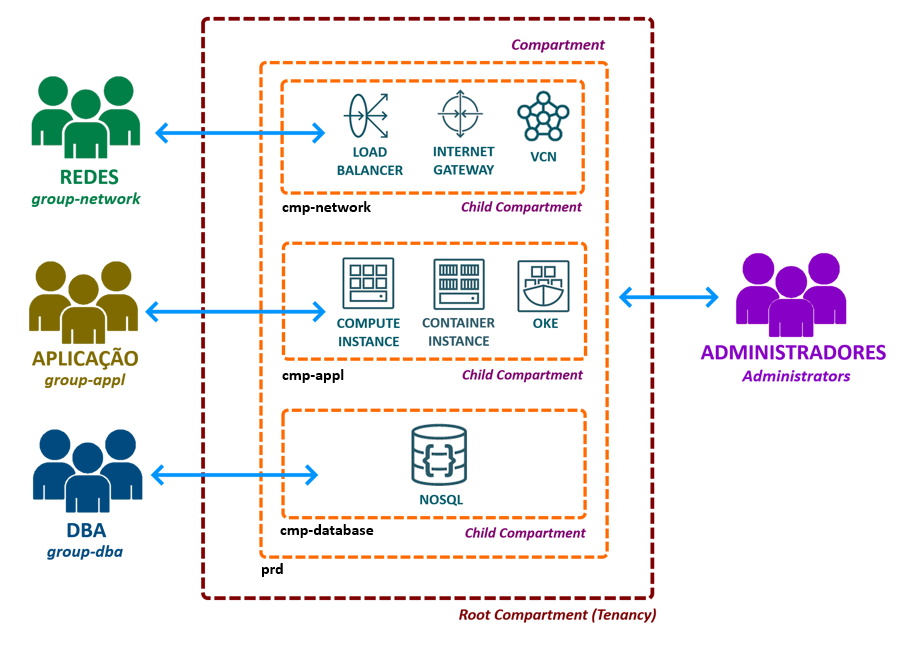
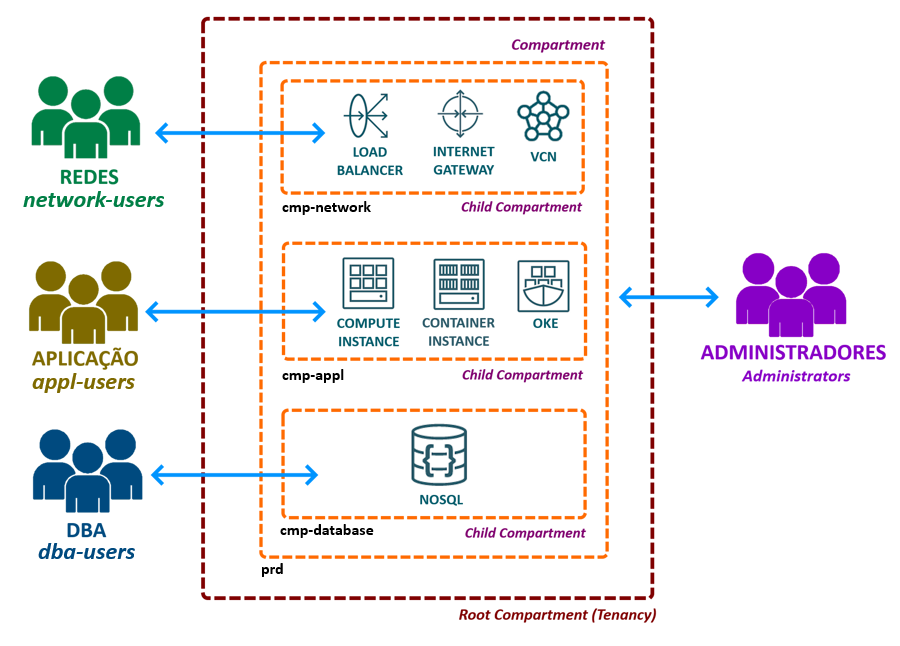
Escrevendo o Livro.

Changed region(s): [[0.0311, 0.2786, 0.1867, 0.3406], [0.0311, 0.5573, 0.1556, 0.6192], [0.0311, 0.8359, 0.1556, 0.8669]]

diff --git a/docs/capitulo-2/iam-limites-e-cotas.md b/docs/capitulo-2/iam-limites-e-cotas.md
@@ -32,7 +32,7 @@ O gerenciamento de identidades no OCI é feito através de dois recursos:
 
 Iniciaremos a explicação sobre o _Gerenciamento de Identidades_ através do usuário _Administrador_ do _[Tenancy](../capitulo-1/definicoes-nist.md#resource-pooling-agrupamento-de-recursos)_. Em seguida, abordaremos o processo de criação de usuários e grupos.
 
-### Usuário Administrador
+### **Usuário Administrador**
 
 Toda conta criada no OCI possui, por padrão, um usuário _administrador_. Além de ter **_acesso total_** ao _[Tenancy](../capitulo-1/definicoes-nist.md#resource-pooling-agrupamento-de-recursos)_, este é o primeiro usuário do _[IAM](https://docs.oracle.com/pt-br/iaas/Content/Identity/getstarted/identity-domains.htm)_ criado após a ativação da conta, sendo responsável por configurar todos os demais usuários.
 
@@ -74,7 +74,7 @@ $ oci iam policy list \
 !!! note "NOTA"
     O comando para consultar a _[policy](https://docs.oracle.com/pt-br/iaas/Content/Identity/policieshow/Policy_Basics.htm#top)_ _"Tenant Admin Policy"_ deve incluir, no parâmetro _--compartment-id_, o valor _[OCID](./gerenciando-o-oci-atraves-do-oci-cli.md#251-oracle-cloud-identifier-ocid)_ do _[Tenancy](../capitulo-1/definicoes-nist.md#resource-pooling-agrupamento-de-recursos)_. Note que o comando anterior, que exibiu o grupo _Administrators_, trouxe esse valor por meio da chave _"compartment-id"_.
 
-### Criando Usuários
+### **Criando Usuários**
 
 O comando abaixo é utilizado para criar um novo usuário com o nome de login _fulano.beltrano_:
 
@@ -122,7 +122,7 @@ Observe que a senha, presente na chave _"password"_, foi gerada automaticamente 
 !!! note "NOTA"
     O OCI também oferece suporte ao uso de usuários federados, além dos usuários locais criados diretamente no IAM. Para um exemplo de como federar usuários com o _Microsoft Active Directory (AD)_, consulte o apêndice _[A.4 Federação com Microsoft Active Directory (AD)](../apendice-a/federacao-com-microsoft-active-directory.md)_.
 
-### Criando Grupos
+### **Criando Grupos**
 
 O acesso aos diversos recursos do OCI é concedido a grupos, e não a usuários individuais. Isso significa que, como administrador, você deve autorizar um grupo de usuários em vez de conceder permissões a cada usuário individual.
 
@@ -132,26 +132,26 @@ Para criar um grupo de usuários, execute o comando abaixo:
 
 ```bash linenums="1"
 $ oci iam group create \
-> --name "group-network" \
+> --name "network-users" \
 > --description "Grupo de usuários que pertencem à equipe de Redes." \
 > --wait-for-state "ACTIVE"
 ```
 
 !!! note "NOTA"
-    O script **_[scripts/capitulo-2/groups.sh](https://github.com/daniel-armbrust/ocipizza-iac/blob/main/scripts/capitulo-2/groups.sh)_** contido no repositório **_["ocipizza-iac"](https://github.com/daniel-armbrust/ocipizza-iac)_**, inclui todos os comandos necessários para a criação dos grupos que serão utilizados nos exemplos apresentados neste capítulo.
+    O script **_[scripts/capitulo-2/group.sh](https://github.com/daniel-armbrust/ocipizza-iac/blob/main/scripts/capitulo-2/group.sh)_** contido no repositório **_["ocipizza-iac"](https://github.com/daniel-armbrust/ocipizza-iac)_**, inclui todos os comandos necessários para a criação dos grupos que serão utilizados nos exemplos apresentados neste capítulo.
 
 Após a criação do grupo, é possível adicionar usuários a ele. Para isso, é necessário obter o _[OCID](./gerenciando-o-oci-atraves-do-oci-cli.md#251-oracle-cloud-identifier-ocid)_ tanto do grupo quanto do usuário que será adicionado.
 
 O comando abaixo retorna o _[OCID](./gerenciando-o-oci-atraves-do-oci-cli.md#251-oracle-cloud-identifier-ocid)_ do grupo _group-network_ recém-criado:
 
 ```bash linenums="1"
-$ oci iam group list --name "group-network" --query "data[].id"
+$ oci iam group list --name "network-users" --query "data[].id"
 [
   "ocid1.group.oc1..aaaaaaaaaaaaaaaaaaaaaaaaaaaaaaaaaaaaaaaa"
 ]
 ```
 
-Para adicionar o usuário _fulano.beltrano_ ao grupo _group-network_, utilize o seguinte comando:
+Para adicionar o usuário _fulano.beltrano_ ao grupo _network-users_, utilize o seguinte comando:
 
 ```bash linenums="1"
 $ oci iam group add-user \
@@ -159,7 +159,7 @@ $ oci iam group add-user \
 > --user-id "ocid1.user.oc1..aaaaaaaaaaaaaaaaaaaaaaaaaaaaaaaaaaaaaaaa"
 ```
 
-O comando abaixo exibe a lista de usuários que são membros do grupo _group-network_:
+O comando abaixo exibe a lista de usuários que são membros do grupo _network-users_:
 
 ```bash linenums="1"
 $ oci iam group list-users \
@@ -180,12 +180,12 @@ A concessão de acesso ou autorização no OCI é realizada por meio de dois rec
 - **[Compartimentos](https://docs.oracle.com/pt-br/iaas/Content/Identity/compartments/managingcompartments.htm)**
     - São unidades de organização que permitem agrupar e isolar recursos, facilitando a gestão e o controle de acesso.
 
-- **[Políticas de Acesso](https://docs.oracle.com/pt-br/iaas/Content/Identity/access/manage-accessresources.htm)**
+- **[Políticas de Acesso](https://docs.oracle.com/pt-br/iaas/Content/Identity/policieshow/Policy_Basics.htm)**
     - São regras que definem permissões e controlam o acesso aos recursos.
 
-Uma boa prática é iniciar o _"desenho do processo de autorização"_ com as definições dos _[compartimentos](https://docs.oracle.com/pt-br/iaas/Content/Identity/compartments/managingcompartments.htm)_. Após a criação dos _[compartimentos](https://docs.oracle.com/pt-br/iaas/Content/Identity/compartments/managingcompartments.htm)_, é necessário criar as _[políticas de acesso](https://docs.oracle.com/pt-br/iaas/Content/Identity/access/manage-accessresources.htm)_ para permitir que um _[grupo de usuários](#criando-grupos)_ crie e gerencie os recursos contidos em cada _[compartimento](https://docs.oracle.com/pt-br/iaas/Content/Identity/compartments/managingcompartments.htm)_ específico.
+Uma boa prática é iniciar o _"desenho do processo de autorização"_ com as definições dos _[compartimentos](https://docs.oracle.com/pt-br/iaas/Content/Identity/compartments/managingcompartments.htm)_. Após a criação dos _[compartimentos](https://docs.oracle.com/pt-br/iaas/Content/Identity/compartments/managingcompartments.htm)_, é necessário criar as _[políticas de acesso](https://docs.oracle.com/pt-br/iaas/Content/Identity/policieshow/Policy_Basics.htm)_ para permitir que um _[grupo de usuários](#criando-grupos)_ crie e gerencie os recursos contidos em cada _[compartimento](https://docs.oracle.com/pt-br/iaas/Content/Identity/compartments/managingcompartments.htm)_ específico.
 
-### [Compartimentos](https://docs.oracle.com/pt-br/iaas/Content/Identity/compartments/managingcompartments.htm)
+### **[Compartimentos](https://docs.oracle.com/pt-br/iaas/Content/Identity/compartments/managingcompartments.htm)**
 
 _[Compartimentos](https://docs.oracle.com/pt-br/iaas/Content/Identity/compartments/managingcompartments.htm)_, ou _[Compartments](https://docs.oracle.com/pt-br/iaas/Content/Identity/compartments/managingcompartments.htm)_, são uma **_estrutura lógica_** que permite **_organizar_** e **_isolar_** os recursos que você cria no OCI. Utilizar _[compartimentos](https://docs.oracle.com/pt-br/iaas/Content/Identity/compartments/managingcompartments.htm)_ facilita o gerenciamento desses recursos e proporciona uma camada adicional de **_proteção contra acessos não autorizados_**.
 
@@ -213,7 +213,7 @@ $ oci iam compartment list \
 Entenda o **_Root ou Tenancy Compartment_**, como se fosse o _"contêiner pai"_ que abriga todos os seus recursos no OCI, incluindo os recursos de outros _[compartimento](https://docs.oracle.com/pt-br/iaas/Content/Identity/compartments/managingcompartments.htm)_.
 
 !!! note "NOTA"
-    Alocar recursos diretamente no _Root Compartment_ não é uma boa prática, especialmente quando há diferentes usuários na organização que precisarão interagir com os recursos no OCI. A boa prática é ter diferentes _[compartimentos](https://docs.oracle.com/pt-br/iaas/Content/Identity/compartments/managingcompartments.htm)_ sendo que cada compartimento, será gerenciado por um grupo específico de usuários.
+    Alocar recursos diretamente no _Root Compartment_ não é uma boa prática, especialmente quando há diferentes usuários na organização que precisarão interagir com os recursos no OCI. A boa prática é ter diferentes _[compartimentos](https://docs.oracle.com/pt-br/iaas/Content/Identity/compartments/managingcompartments.htm)_ sendo que cada _[compartimento](#compartimentos)_, será gerenciado por um grupo específico de usuários.
 
 A _[Web Console](./acessando-o-oci.md#web-console)_ filtra a exibição dos seus recursos por _[compartimento](https://docs.oracle.com/pt-br/iaas/Content/Identity/compartments/managingcompartments.htm)_ dentro da região, e você deve selecionar o _[compartimento](https://docs.oracle.com/pt-br/iaas/Content/Identity/compartments/managingcompartments.htm)_ em que deseja trabalhar a partir de uma lista.
 
@@ -227,9 +227,9 @@ Por fim, é possível criar até **_seis subcompartimentos_** dentro de um _[com
 ![alt_text](./img/oci-subcompartments-1.png "Subcompartimentos")
 <br>
 
-#### Compartimentos da Aplicação OCI Pizza
+#### **Compartimentos da Aplicação OCI Pizza**
 
-Para ilustrar melhor o uso de _[compartimentos](https://docs.oracle.com/pt-br/iaas/Content/Identity/compartments/managingcompartments.htm)_, imagine diferentes grupos de profissionais de TI colaborando no desenvolvimento da aplicação **_[OCI PIZZA](../capitulo-3/ocipizza-overview.md)_**. Esses grupos incluem:
+Para ilustrar melhor o uso de _[Compartimento](#compartimentos)_, imagine diferentes grupos de profissionais de TI colaborando no desenvolvimento da aplicação **_[OCI PIZZA](../capitulo-3/ocipizza-overview.md)_**. Esses grupos incluem:
 
 - **REDES**
     - Grupo de pessoas responsáveis pela criação e gerenciamento dos recursos de rede no OCI.
@@ -248,14 +248,14 @@ Da mesma forma, os profissionais **_DBA_** terão acesso somente aos recursos de
 
 Além da separação por grupos de usuários, outra forma de organizar os recursos é através da distinção por _"ambientes"_, como **_Produção (PRD)_**, **_Homologação (HML)_** e **_Desenvolvimento (DEV)_**.
 
-Com base nessas definições, temos a seguinte estrutura de _[compartimentos](https://docs.oracle.com/pt-br/iaas/Content/Identity/compartments/managingcompartments.htm)_ e _subcompartimentos (child compartments)_ para o _ambiente de produção (prd)_:
+Com base nessas definições, temos a seguinte estrutura de _[compartimento](#compartimentos)_ e _subcompartimentos (child compartments)_ para o _ambiente de produção (prd)_:
 
 ![alt_text](./img/oci-comp-ocipizza-1.png "Compartimentos da Aplicação OCI PIZZA")
 <br>
 
-A partir do desenho, é possível observar que o grupo de usuários de redes _(group-network)_ terá autorização para criar recursos de rede exclusivamente no _[compartimento](https://docs.oracle.com/pt-br/iaas/Content/Identity/compartments/managingcompartments.htm)_ _cmp-network_. Outros grupos de usuários, como o de _aplicação (group-appl)_ e o de _DBA (group-dba)_, também terão permissões restritas aos seus respectivos _[compartimentos](https://docs.oracle.com/pt-br/iaas/Content/Identity/compartments/managingcompartments.htm)_ _(cmp-appl e cmp-database)_. Por fim, o grupo _Administrators_ tem acesso total a todos os _[compartimentos](https://docs.oracle.com/pt-br/iaas/Content/Identity/compartments/managingcompartments.htm)_.
+A partir do desenho, é possível observar que o grupo de usuários de redes _(group-network)_ terá autorização para criar recursos de rede exclusivamente no _[compartimento](#compartimentos)_ _cmp-network_. Outros grupos de usuários, como o de _aplicação (group-appl)_ e o de _DBA (group-dba)_, também terão permissões restritas aos seus respectivos _[compartimentos](#compartimentos)_ _(cmp-appl e cmp-database)_. Por fim, o grupo _Administrators_ tem acesso total a todos os _[compartimentos](#compartimentos)_.
 
-Para criar um compartimento, utilize o seguinte comando:
+Para criar um _[compartimento](#compartimentos)_, utilize o seguinte comando:
 
 ```bash linenums="1"
 $ oci iam compartment create \
@@ -265,7 +265,7 @@ $ oci iam compartment create \
 > --wait-for-state "ACTIVE"
 ```
 
-Após a criação do _[compartimento](https://docs.oracle.com/pt-br/iaas/Content/Identity/compartments/managingcompartments.htm)_, obteremos seu  _[OCID](./gerenciando-o-oci-atraves-do-oci-cli.md#251-oracle-cloud-identifier-ocid)_ que será utilizado na criação do próximo _[compartimento](https://docs.oracle.com/pt-br/iaas/Content/Identity/compartments/managingcompartments.htm)_, estabelecendo assim a hierarquia de _[compartimentos](https://docs.oracle.com/pt-br/iaas/Content/Identity/compartments/managingcompartments.htm)_, igual ao que foi apresentado na imagem anterior.
+Após a criação do _[compartimento](#compartimentos)_, obteremos seu  _[OCID](./gerenciando-o-oci-atraves-do-oci-cli.md#251-oracle-cloud-identifier-ocid)_ que será utilizado na criação do próximo _[compartimentos](#compartimentos)_, estabelecendo assim a hierarquia de _[compartimentos](#compartimentos)_, igual ao que foi apresentado na imagem anterior.
 
 ```bash linenums="1"
 $ oci iam compartment list \
@@ -276,7 +276,7 @@ $ oci iam compartment list \
 ]
 ```
 
-Com o _[OCID](./gerenciando-o-oci-atraves-do-oci-cli.md#251-oracle-cloud-identifier-ocid)_ do _[compartimento](https://docs.oracle.com/pt-br/iaas/Content/Identity/compartments/managingcompartments.htm)_ do _ambiente de produção (prd)_, prosseguimos para a criação do próximo _[compartimento](https://docs.oracle.com/pt-br/iaas/Content/Identity/compartments/managingcompartments.htm)_, que é o _cmp-network_:
+Com o _[OCID](./gerenciando-o-oci-atraves-do-oci-cli.md#251-oracle-cloud-identifier-ocid)_ do _[compartimento](#compartimentos)_ do _ambiente de produção (prd)_, prosseguimos para a criação do próximo _[compartimento](#compartimentos)_, que é o _cmp-network_:
 
 ```bash linenums="1"
 $ oci iam compartment create \
@@ -286,21 +286,138 @@ $ oci iam compartment create \
 > --wait-for-state "ACTIVE"
 ```
 
-A criação dos demais _[compartimentos](https://docs.oracle.com/pt-br/iaas/Content/Identity/compartments/managingcompartments.htm)_ seguem a mesma lógica e não serão apresentados aqui.
+A criação dos demais _[compartimentos](#compartimentos)_ seguem a mesma lógica e não serão apresentados aqui.
 
 !!! note "NOTA"
-    O script **_[scripts/capitulo-2/compartments.sh](https://github.com/daniel-armbrust/ocipizza-iac/blob/main/scripts/capitulo-2/compartments.sh)_** contido no repositório **_["ocipizza-iac"](https://github.com/daniel-armbrust/ocipizza-iac)_**, inclui todos os comandos para a criação dos _[compartimentos](https://docs.oracle.com/pt-br/iaas/Content/Identity/compartments/managingcompartments.htm)_ da aplicação OCI PIZZA.
-
-
-### [Políticas de Acesso](https://docs.oracle.com/pt-br/iaas/Content/Identity/access/manage-accessresources.htm)
+    O script **_[scripts/capitulo-2/compartment.sh](https://github.com/daniel-armbrust/ocipizza-iac/blob/main/scripts/capitulo-2/compartment.sh)_** contido no repositório **_["ocipizza-iac"](https://github.com/daniel-armbrust/ocipizza-iac)_**, inclui todos os comandos para a criação dos _[compartimentos](#compartimentos)_ da aplicação **OCI PIZZA**.
 
 !!! note "NOTA"
-    Esse tipo de separação, aplica o conceito de _segurança da informação_ conhecido como _[principio do menor ou mínimo privilégio (least privilege)](https://en.wikipedia.org/wiki/Principle_of_least_privilege)_, no qual determina que um usuário, programa ou sistema, deve ter acesso restrito apenas às permissões necessárias para desempenhar suas funções específicas.
+    A Oracle recomenda a criação e configuração de um _[compartimentos](#compartimentos)_ **_sandbox_** para proporcionar aos usuários um espaço dedicado para testar recursos. No _[compartimento](#compartimentos)_ _sandbox_, você pode conceder permissões aos usuários para criar e gerenciar recursos, enquanto mantém permissões mais restritivas nos demais _[compartimentos](#compartimentos)_.
 
-## 2.6.3 Grupos Dinâmicos
+### **[Políticas de Acesso](https://docs.oracle.com/pt-br/iaas/Content/Identity/policieshow/Policy_Basics.htm)**
 
-## 2.6.4 Gerenciamento de Regiões
+Uma _[Política de Acesso](https://docs.oracle.com/pt-br/iaas/Content/Identity/policieshow/Policy_Basics.htm)_, _[Política](https://docs.oracle.com/pt-br/iaas/Content/Identity/policieshow/Policy_Basics.htm)_ ou _[Policy](https://docs.oracle.com/pt-br/iaas/Content/Identity/policieshow/Policy_Basics.htm)_, é um documento que contém uma ou mais declarações destinadas a conceder acesso e autorizar, um grupo de usuários, em gerenciar determinado serviço ou recurso do OCI. A Policy permite especificar permissões em nível de _[compartimento](#compartimentos)_ ou para todo o _[Tenancy](../capitulo-1/definicoes-nist.md#resource-pooling-agrupamento-de-recursos)_.
 
-### Home Region
+A concessão de acesso é feita a um grupo de usuários ou a um serviço, e não a um usuário específico. Além disso, todo grupo de usuários que é criado não possui nenhuma permissão de acesso, a menos que uma _[Policy](https://docs.oracle.com/pt-br/iaas/Content/Identity/policieshow/Policy_Basics.htm)_ tenha sido previamente definida. É responsabilidade do administrador do _[Tenancy](../capitulo-1/definicoes-nist.md#resource-pooling-agrupamento-de-recursos)_ conceder permissões ao grupo ou serviço por meio de uma ou mais _[policies](https://docs.oracle.com/pt-br/iaas/Content/Identity/policieshow/Policy_Basics.htm)_.
 
-## 2.6.5 Audit
+Basicamente, a sintaxe geral da _[Policy](https://docs.oracle.com/pt-br/iaas/Content/Identity/policieshow/Policy_Basics.htm)_ possui o seguinte formato:
+
+![alt_text](./img/oci-iam-policy-1.png "IAM Policy Sintaxe")
+
+_[Policies](https://docs.oracle.com/pt-br/iaas/Content/Identity/policieshow/Policy_Basics.htm)_ sempre começam com a palavra **_Allow_**. Isso significa que as _[Policies](https://docs.oracle.com/pt-br/iaas/Content/Identity/policieshow/Policy_Basics.htm)_ que você cria apenas concedem ou autorizam acesso, não podendo negá-lo, uma vez que, por padrão, tudo já é negado.
+
+Abaixo está o significado de cada uma das partes em destaque que compõem uma _[Policy](https://docs.oracle.com/pt-br/iaas/Content/Identity/policieshow/Policy_Basics.htm)_:
+
+#### **[Assunto](https://docs.oracle.com/pt-br/iaas/Content/Identity/policysyntax/subject.htm)**
+
+O elemento _[assunto](https://docs.oracle.com/pt-br/iaas/Content/Identity/policysyntax/subject.htm)_ pode especificar um _[Grupo de Usuários](#261-gerenciamento-de-identidades)_, _[Grupo Dinâmico](https://docs.public.oneportal.content.oci.oraclecloud.com/pt-br/iaas/Content/Identity/dynamicgroups/Working_with_Dynamic_Groups.htm)_ ou serviços do OCI, utilizando uma das seguintes formas:
+
+- **group**
+    - Nome do _[Grupo de Usuários](#261-gerenciamento-de-identidades)_ no qual o acesso será concedido.
+
+- **group id**
+    - _[OCID](./gerenciando-o-oci-atraves-do-oci-cli.md#251-oracle-cloud-identifier-ocid)_ do _[Grupo de Usuários](#261-gerenciamento-de-identidades)_ no qual o acesso será concedido.
+
+- **dynamic-group**
+    - Nome do _[Grupo Dinâmico](https://docs.public.oneportal.content.oci.oraclecloud.com/pt-br/iaas/Content/Identity/dynamicgroups/Working_with_Dynamic_Groups.htm)_ no qual o acesso será concedido.
+
+- **dynamic-group id**
+    - _[OCID](./gerenciando-o-oci-atraves-do-oci-cli.md#251-oracle-cloud-identifier-ocid)_ do _[Grupo Dinâmico](https://docs.public.oneportal.content.oci.oraclecloud.com/pt-br/iaas/Content/Identity/dynamicgroups/Working_with_Dynamic_Groups.htm)_ no qual o acesso será concedido.
+
+- **service**
+    - Especifica o nome do serviço OCI no qual o acesso será concedido.
+
+- **any-group**
+    - Indica todos os _[Grupos de Usuários](#261-gerenciamento-de-identidades)_ e _[Grupos Dinâmico](https://docs.public.oneportal.content.oci.oraclecloud.com/pt-br/iaas/Content/Identity/dynamicgroups/Working_with_Dynamic_Groups.htm)_ do _[Tenancy](../capitulo-1/definicoes-nist.md#resource-pooling-agrupamento-de-recursos)_.
+
+Há também a sintaxe **_<Nome do Domínio de Identidade\>/<Nome do Grupo\>_** que pode ser utilizada para se referir a um _[Grupo de Usuários](#261-gerenciamento-de-identidades)_ existente em um _[Domínio de Identidade](https://docs.oracle.com/pt-br/iaas/Content/Identity/domains/overview.htm)_ que não é o **_Default_**.
+
+!!! note "NOTA"
+    O livro utiliza o _[Domínio de Identidade](https://docs.oracle.com/pt-br/iaas/Content/Identity/domains/overview.htm)_ **_Default_**, que é criado automaticamente durante o processo de ativação da conta. Para saber mais sobre _[Domínios de Identidade](https://docs.oracle.com/pt-br/iaas/Content/Identity/domains/overview.htm)_, consulte _["Gerenciando Domínios de Identidade"](https://docs.oracle.com/pt-br/iaas/Content/Identity/domains/overview.htm)_.
+
+#### **[Verbo](https://docs.oracle.com/pt-br/iaas/Content/Identity/policieshow/Verbs.htm)**
+
+O elemento _[verbo](https://docs.oracle.com/pt-br/iaas/Content/Identity/policieshow/Verbs.htm)_ especifica o _tipo de acesso_ que será concedido em relação as operações que podem ser feitas em uma determinada API de um determinado serviço. Seus valores incluem:
+
+- **inspect**
+    - Concede a autorização para listar recursos.
+
+- **read**
+    - Inclui as permissões do verbo _inspect_ mais a capacidade de obter metadados do recurso.
+
+- **use**
+    - Inclui as permissões do verbo _read_ mais a capacidade de poder _atualizar_ o recurso _(operações de update)_. Em geral, esse verbo não inclui a capacidade de criar ou excluir um recurso.
+
+- **manage**
+    - Inclui todas as permissões para o recurso. 
+
+!!! note "NOTA"
+    Como é possível perceber o nível de acesso é cumulativo à medida que você vai de _inspect > read > use > manage_.
+
+Sabemos que, para cada serviço disponibilizado pelo OCI, existem uma ou mais APIs disponíveis, e cada API oferece uma funcionalidade específica relacionada ao serviço.
+
+Em termos de concessão de acesso, por exemplo, o verbo _inspect_ para o serviço de _[Load Balancer](../capitulo-4/load-balancer.md)_, inclui a permissão nomeada **_LOAD\_BALANCER\_INSPECT_** que contém as APIs **_ListLoadBalancers_**, **_ListShapes_**, **_ListPolicies_** e **_ListProtocols_**.
+
+![alt_text](./img/oci-api-doc-1.png "Load Balancer API - ListLoadBalancers")
+<br>
+
+!!! note "NOTA"
+    Todas as APIs disponibilizadas pelo OCI estão documentadas no link _["API Reference and Endpoints"](https://docs.oracle.com/en-us/iaas/api/#/)_. Na seção _["2.5.3 APIs do OCI"](../capitulo-2/gerenciando-o-oci-atraves-do-oci-cli.md#253-apis-do-oci)_ há também mais informações relacionadas ao tema de APIs.
+
+O objetivo dos _verbos_ é simplificar o processo de concessão de diversas permissões relacionadas. A tabela abaixo ajuda a esclarecer o significado do _verbo_ em relação à concessão de acesso às operações disponíveis nas APIs do serviço _[Load Balancer](../capitulo-4/load-balancer.md)_:
+
+| Verbo   | Permissão                      | API                                                         |
+|---------|--------------------------------|-------------------------------------------------------------|
+| inspect | LOAD_BALANCER_INSPECT          | _[ListLoadBalancers](https://docs.oracle.com/en-us/iaas/api/#/en/loadbalancer/20170115/LoadBalancer/ListLoadBalancers)_, _[ListShapes](https://docs.oracle.com/en-us/iaas/api/#/en/loadbalancer/20170115/LoadBalancerShape/ListShapes)_, _[ListPolicies](https://docs.oracle.com/en-us/iaas/api/#/en/loadbalancer/20170115/LoadBalancerPolicy/ListPolicies)_ e _[ListProtocols](https://docs.oracle.com/en-us/iaas/api/#/en/loadbalancer/20170115/LoadBalancerProtocol/ListProtocols)_ |
+| read    | _inspect_ + LOAD_BALANCER_READ | _[GetLoadBalancer](https://docs.oracle.com/en-us/iaas/api/#/en/loadbalancer/20170115/LoadBalancer/GetLoadBalancer)_, _[GetBackendSet](https://docs.oracle.com/en-us/iaas/api/#/en/loadbalancer/20170115/BackendSet/GetBackendSet)_, _[GetBackend](https://docs.oracle.com/en-us/iaas/api/#/en/loadbalancer/20170115/Backend/GetBackend)_, _[GetHealthChecker](https://docs.oracle.com/en-us/iaas/api/#/en/loadbalancer/20170115/HealthChecker/GetHealthChecker)_, etc. |
+| use     | _read_ + LOAD_BALANCER_UPDATE e LOAD_BALANCER_MOVE | _[UpdateBackendSet](https://docs.oracle.com/en-us/iaas/api/#/en/loadbalancer/20170115/BackendSet/UpdateBackendSet)_, _[DeleteBackendSet](https://docs.oracle.com/en-us/iaas/api/#/en/loadbalancer/20170115/BackendSet/DeleteBackendSet)_, _[UpdateListener](https://docs.oracle.com/en-us/iaas/api/#/en/loadbalancer/20170115/Listener/UpdateListener)_, etc. |
+| manage  | _use_ + LOAD_BALANCER_CREATE e LOAD_BALANCER_DELETE | _[CreateLoadBalancer](https://docs.oracle.com/en-us/iaas/api/#/en/loadbalancer/20170115/LoadBalancer/CreateLoadBalancer)_ e _[DeleteLoadBalancer](https://docs.oracle.com/en-us/iaas/api/#/en/loadbalancer/20170115/LoadBalancer/DeleteLoadBalancer)_ |
+
+!!! note "NOTA"
+    O link _["Referência da Política de Serviço Detalhada"](https://docs.oracle.com/pt-br/iaas/Content/Identity/policyreference/policyreference.htm)_ contém todos os detalhes referente as permissões e operações às APIs para todos os serviços disponibilizados pelo OCI.
+
+No exemplo abaixo, a _[Policy](https://docs.oracle.com/pt-br/iaas/Content/Identity/policieshow/Policy_Basics.htm)_ escrita concede ao _grupo network-users_, acesso a todas as APIs do serviço que gerencia _[VCNs](../capitulo-4/servico-de-redes.md)_ em todo o _[Tenancy](../capitulo-1/definicoes-nist.md#resource-pooling-agrupamento-de-recursos)_:
+
+![alt_text](./img/oci-iam-policy-2.png "OCI IAM Policy #2")
+<br>
+
+Compreender a relação entre permissões e as APIs disponíveis por serviço facilita a elaboração de _[Policies](https://docs.oracle.com/pt-br/iaas/Content/Identity/policieshow/Policy_Basics.htm)_ mais granulares em termos de acesso. Veremos adiante que é possível, por exemplo, conceder acesso apenas às APIs _[AddVcnCidr](https://docs.oracle.com/en-us/iaas/api/#/en/iaas/20160918/Vcn/AddVcnCidr)_ e _[RemoveVcnCidr](https://docs.oracle.com/en-us/iaas/api/#/en/iaas/20160918/Vcn/RemoveVcnCidr)_ do verbo _manage_, sem conceder acesso às demais APIs, como _[CreateVcn](https://docs.oracle.com/en-us/iaas/api/#/en/iaas/20160918/Vcn/CreateVcn)_, _[UpdateVcn](https://docs.oracle.com/en-us/iaas/api/#/en/iaas/20160918/Vcn/UpdateVcn)_ ou _[DeleteVcn](https://docs.oracle.com/en-us/iaas/api/#/en/iaas/20160918/Vcn/DeleteVcn)_.
+
+#### **[Tipo do Recurso](https://docs.oracle.com/pt-br/iaas/Content/Identity/policiesgs/policies_topic-ResourceTypes.htm)**
+
+O elemento _[Tipo do Recurso](https://docs.oracle.com/pt-br/iaas/Content/Identity/policiesgs/policies_topic-ResourceTypes.htm)_ refere-se a um recurso específico ou a uma _família de recursos_.
+
+Por exemplo, a _família de recursos_ **_virtual-network-family_** abrange vários recursos específicos relacionados a _[VCN](../capitulo-4/servico-de-redes.md)_, como **_vcns_**, **_subnets_**, **_route-tables_**, **_security-lists_**, entre outros. Nesse contexto, **_vcns_** e **_subnets_** correspondem a recursos específicos, como _[VCNs](../capitulo-4/servico-de-redes.md)_ e _[Sub-rede](../capitulo-4/servico-de-redes.md)_.
+
+Trabalhar com um recurso específico ou uma _família de recursos_ proporciona a flexibilidade de definir exatamente quais recursos terão acesso concedido.
+
+Há também o tipo **_all-resources_**, que pode ser usado para fazer referência a todos os recursos do _[Tenancy](../capitulo-1/definicoes-nist.md#resource-pooling-agrupamento-de-recursos)_.
+
+![alt_text](./img/oci-iam-policy-3.png "IAM Policy Exemplos #3")
+
+!!! note "NOTA"
+    Consulte _["Referência da Política de Serviço Detalhada"](https://docs.oracle.com/pt-br/iaas/Content/Identity/policyreference/policyreference.htm)_ para verificar os tipos de recursos disponíveis e o nome da família de recursos à qual cada recurso pertence.
+
+#### **[Local](https://docs.oracle.com/pt-br/iaas/Content/Identity/policysyntax/location.htm)**
+
+O elemento _[Local](https://docs.oracle.com/pt-br/iaas/Content/Identity/policysyntax/location.htm)_ especifica o _[Compartimento](#compartimentos)_ ou _[Tenancy](../capitulo-1/definicoes-nist.md#resource-pooling-agrupamento-de-recursos)_ no qual a _[Policy](https://docs.oracle.com/pt-br/iaas/Content/Identity/policieshow/Policy_Basics.htm)_ concede acesso. Em outras palavras, ele define o escopo do acesso, que pode ser um _[compartimento](#compartimentos)_ específico ou todo o _[Tenancy](../capitulo-1/definicoes-nist.md#resource-pooling-agrupamento-de-recursos)_.
+
+Os seguintes valores que podem ser usados para o elemento _[local](https://docs.oracle.com/pt-br/iaas/Content/Identity/policysyntax/location.htm)_ são:
+
+- **tenancy**
+    - Abrange todos os recursos do Tenancy.
+
+- **compartment**
+    - Usado para especificar o nome do compartimento onde a policy será aplicada. Se houver subcompartimentos abaixo do compartimento especificado, a policy se aplicará a todos os compartimentos a partir do nível mais alto da hierarquia.
+  
+- **compartment id**
+    - Usado para especificar o _[OCID](./gerenciando-o-oci-atraves-do-oci-cli.md#251-oracle-cloud-identifier-ocid)_ do compartimento onde a policy será aplicada. 
+
+Valores válidos para o elemento _[Local](https://docs.oracle.com/pt-br/iaas/Content/Identity/policysyntax/location.htm)_ também podem incluír um _[compartimento](#compartimentos)_ específico dentro de uma hierarquia de _[compartimentos](#compartimentos)_:
+
+![alt_text](./img/oci-iam-policy-4.png "IAM Policy Exemplos #4")
+
+Para **_compartment id_**, é possível utilizar apenas um valor _[OCID](./gerenciando-o-oci-atraves-do-oci-cli.md#251-oracle-cloud-identifier-ocid)_ de um  _[compartimento](#compartimentos)_ específico. Não é permitido fazer referência a uma hierarquia de  _[compartimentos](#compartimentos)_.
+
+#### **[Condição](https://docs.oracle.com/pt-br/iaas/Content/Identity/policysyntax/conditions.htm)**
+

diff --git a/docs/como-usar-este-livro.md b/docs/como-usar-este-livro.md
@@ -1,2 +1,70 @@
 # Como usar este Livro
 
+A motivação para escrever um livro sobre _[Cloud Native](./capitulo-1/cloud-native.md)_ na _[Oracle Cloud (OCI)](./capitulo-2/index.md)_ surgiu principalmente da minha falta de entendimento sobre o tema. Posso afirmar que o processo de escrita, combinado com minha experiência cotidiana, me ajudaram a compreender um pouco mais sobre o assunto.
+
+O livro foi escrito em português, pois o objetivo é contribuir, primeiro, com os brasileiros. Optei por não traduzir alguns termos pois eles são usados sem tradução pelos profissionais de TI do Brasil no seu dia a dia.
+
+A _[Oracle Cloud](./capitulo-2/index.md)_ e o conceito de _[Cloud Native](./capitulo-1/cloud-native.md)_ estão em constante evolução, e foi por essa razão que decidi manter o livro aberto e disponível publicamente na Internet, pois isso facilita a atualização do conteúdo.
+
+A versão aberta, em HTML, está disponível em: **[https://ocn.dev.br/](https://ocn.dev.br/)**
+
+É recomendável que a leitura do livro seja feita de forma sequencial, começando pelo Capítulo 1 e seguindo até o final. Isso se deve ao fato de que não faz sentido tentar provisionar um recurso computacional sem uma rede devidamente configurada, assim como não é eficaz criar um _[Container Instance](./capitulo-7/container-instances.md)_ sem entender o que é um contêiner e como ele funciona.
+
+Vale lembrar que a ordem sugerida para a leitura dos capítulos não é uma exigência, mas sim uma recomendação para que você possa aproveitar melhor o conteúdo apresentado neste livro.
+
+Além de apresentar alguns dos serviços disponíveis na Oracle Cloud, o livro inclui uma aplicação web simples, desenvolvida em _[Python/Flask](https://flask.palletsprojects.com/en/stable/)_ pelo próprio autor. O objetivo de incluir essa aplicação é fornecer uma demonstração prática de como implantar uma aplicação utilizando os serviços do OCI.
+
+Boas práticas para a escrita de aplicações web, assim como orientações sobre desenvolvimento, não estão incluídas no escopo deste livro. Da mesma forma, detalhes avançados sobre arquitetura de sistemas, separação de responsabilidades entre serviços, também não são abordados.
+
+Por fim, o livro conta com três repositórios no _[GitHub](https://github.com/)_:
+
+- [https://github.com/daniel-armbrust/ocipizza-iac](https://github.com/daniel-armbrust/ocipizza-iac)
+    - Este repositório contém os códigos de exemplo para a criação da infraestrutura no OCI, utilizados ao longo dos capítulos.
+
+- [https://github.com/daniel-armbrust/ocipizza-monolito](https://github.com/daniel-armbrust/ocipizza-monolito)
+    - Este repositório contém o monolito da aplicação OCI PIZZA, desenvolvida em Python/Flask. O repositório é utilizando tanto no deployment da aplicação em _[Compute Instance](./capitulo-6/index.md)_ e _[Container Instance](./capitulo-7/container-instances.md)_.
+
+- [https://github.com/daniel-armbrust/ocipizza-microsservicos](https://github.com/daniel-armbrust/ocipizza-microsservicos)
+    - Este repositório contém os códigos referentes aos microsserviços da aplicação OCI PIZZA. Os serviços que compõem a aplicação, disponíveis neste repositório, serão implantados utilizando o _[OKE (Oracle Kubernetes Engine)](./capitulo-8/index.md)_.
+
+A descrição sucinta do que cada capítulo abrange pode ser consultada a seguir:
+
+- [Capítulo 1: Introdução a Computação em Nuvem](./capitulo-1/index.md)
+    - O capítulo aborda os aspectos históricos que levaram à criação da Computação em Nuvem, além de discutir suas vantagens e desvantagens. Também são apresentados conceitos como DevOps e Cloud Native.
+
+- [Capítulo 2: OCI Foundations](./capitulo-2/index.md)
+    - O capítulo oferece uma explicação sobre os fundamentos do OCI, abordando tópicos que vão desde a ativação de uma nova conta na Oracle Cloud até questões relacionadas à cobrança dos serviços, controle de acesso e a utilização do OCI CLI, que é o principal meio utilizado no livro para gerenciar os recursos do OCI.
+
+- [Capítulo 3: Aplicação OCI Pizza](./capitulo-3/index.md)
+    - Aqui, é apresentada a aplicação de exemplo OCI PIZZA, desenvolvida em Python/Flask. Serão abordados conceitos relacionados a requisitos funcionais e não funcionais, histórias de usuário, além das arquiteturas monolítica e de microsserviços.
+
+- [Capítulo 4: Conectividade e Redes](./capitulo-4/index.md)
+    - Este capítulo apresenta o serviço de redes do OCI, juntamente com a criação da arquitetura de redes utilizada pela aplicação OCI PIZZA.
+
+- [Capítulo 5: Oracle NoSQL Database Cloud Service](./capitulo-5/index.md)
+    - Neste capítulo, são abordados os conceitos relacionados a bancos de dados do tipo NoSQL e a utilização do OCI NoSQL, que é o banco de dados utilizado pela aplicação OCI PIZZA.
+
+- [Capítulo 6: Serviço de Computação](./capitulo-6/index.md)
+    - Aqui, é apresentado o Serviço de Computação, onde o monolito da aplicação será implantado.
+
+- [Capítulo 7: Desenvolvimento Moderno](./capitulo-7/index.md)
+    - Este capítulo aborda o que são contêineres e o processo de conteinerização da aplicação OCI PIZZA. Além disso, são apresentados e utilizados o Serviço Functions e o Serviço Container Instances do OCI.
+
+- [Capítulo 8: Oracle Kubernetes Engine (OKE)](./capitulo-8/index.md)
+    - Este capítulo aborda a história e os motivos que levaram à criação do Kubernetes. Além disso, será apresentado e utilizado o OKE (Oracle Kubernetes Engine) para o deployment da aplicação OCI PIZZA, que é o serviço Kubernetes gerenciado do OCI.
+
+- [Capítulo 9: Serviço DevOps](./capitulo-9/index.md)
+    - Este capítulo aborda o Serviço DevOps do OCI, focando nas ações de CI/CD (Integração Contínua e Entrega Contínua) da aplicação OCI PIZZA.
+
+- [Capítulo 10: Monitoração e Observabilidade](./capitulo-10/index.md)
+    - Aqui, são tratadas questões relacionadas à monitoração da aplicação.
+
+- [Capítulo 11: Ferramental de IA](./capitulo-11/index.md)
+    - Este capítulo demonstra as ferramentas de IA disponíveis no OCI e como a funcionalidade de "chat" da aplicação utiliza esses serviços.
+
+- [Apêndice A: OCI HOWTOs](./apendice-a/index.md)
+    - Este apêndice contém HOWTOs (guias práticos) sobre temas variados e úteis que não se encaixaram na abordagem linear proposta pelo livro, todos relacionados ao OCI.
+
+Para críticas, sugestões ou reportar qualquer erro, mesmo que um simples erro ortográfico, entre em contato comigo pelo e-mail: <a href="darmbrust@gmail.com">darmbrust@gmail.com</a>
+
+Direitos autorais reservados. Versão para uso pessoal. 

diff --git a/docs/capitulo-2/gerenciando-o-oci-atraves-do-oci-cli.md b/docs/capitulo-2/gerenciando-o-oci-atraves-do-oci-cli.md
@@ -115,7 +115,7 @@ $ oci --latest-version
 O OCI como todo provedor de computação em Nuvem, disponibilizam seus serviços através de um conjunto de diferentes APIs. 
 
 !!! note "NOTA"
-    Todas as APIs que o OCI disponibiliza, estão documentadas no link _[API Reference and Endpoints](https://docs.oracle.com/en-us/iaas/api/#/)_.
+    Todas as APIs disponibilizadas pelo OCI estão documentadas no link _[API Reference and Endpoints](https://docs.oracle.com/en-us/iaas/api/#/)_.
 
 As APIs do OCI são públicas, acessíveis pela Internet por meio do protocolo _HTTPS_. Por exemplo, o conjunto de APIs denominado _[Core Services API](https://docs.oracle.com/en-us/iaas/api/#/en/iaas/latest/)_, permite gerenciar recursos como _[VCN](https://docs.oracle.com/pt-br/iaas/Content/Network/Tasks/Overview_of_VCNs_and_Subnets.htm)_, _[Compute Instances](https://docs.oracle.com/pt-br/iaas/Content/Compute/Concepts/computeoverview.htm)_ e _[Block Storage](https://docs.oracle.com/pt-br/iaas/Content/Block/Concepts/overview.htm)_.
 

diff --git a/docs/index.md b/docs/index.md
@@ -33,7 +33,7 @@ Boa leitura!
 
 | Status              | Última Atualização | Versão   |
 |---------------------|--------------------|----------|
-| <span class="blink">Ainda escrevendo...</span> | 29/03/2026         | 1.0.0b   |
+| <span class="blink">Ainda escrevendo...</span> | 01/04/2026         | 1.0.0b   |
 
 ## Sumário
 
